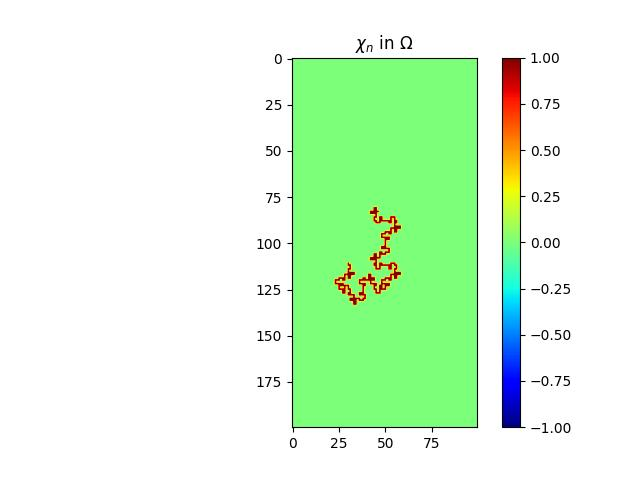
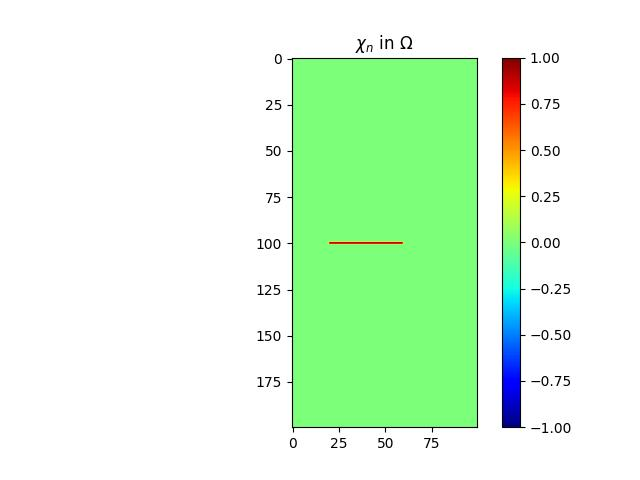
ça tourne mais chi ne se modifie pas

Changed region(s): [[0.5, 0.4062, 0.625, 0.6562]]

diff --git a/demo_control_polycopie2023.py b/demo_control_polycopie2023.py
@@ -20,6 +20,7 @@ def compute_J_prim(alpha, u, p) :
     for i in range(M) :
         for j in range(N) :
             res[i,j]=np.real(-alpha[i,j]*u[i,j]*p[i,j])
+    return res
 
 
 def BelongsInteriorDomain(node):
@@ -40,19 +41,19 @@ def compute_gradient_descent(chi, grad, domain, mu):
     :param grad: parametric gradient associated to the problem
     :param domain: domain of definition of the equations
     :param mu: step of the descent
-    :type chi: numpy.array((M,N), dtype=float64
-    :type grad: numpy.array((M,N), dtype=float64)
-    :type domain: numpy.array((M,N), dtype=int64)
+    :type chi: np.array((M,N), dtype=float64
+    :type grad: np.array((M,N), dtype=float64)
+    :type domain: np.array((M,N), dtype=int64)
     :type mu: float
     :return chi:
-    :rtype chi: numpy.array((M,N), dtype=float64
+    :rtype chi: np.array((M,N), dtype=float64
 
     .. warnings also: It is important that the conditions be expressed with an "if",
             not with an "elif", as some points are neighbours to multiple points
             of the Robin frontier.
     """
 
-    (M, N) = numpy.shape(domain)
+    (M, N) = np.shape(domain)
     # for i in range(0, M):
     # 	for j in range(0, N):
     # 		if domain_omega[i, j] != _env.NODE_ROBIN:
@@ -73,6 +74,7 @@ def compute_gradient_descent(chi, grad, domain, mu):
             d = BelongsInteriorDomain(domain[i, j - 1])
             if a == 2:
                 print(i+1,j, "-----", "i+1,j")
+
                 chi[i + 1, j] = chi[i + 1, j] - mu * grad[i, j]
             if b == 2:
                 print(i - 1, j, "-----", "i - 1, j")
@@ -97,14 +99,14 @@ def compute_projected(chi, domain, V_obj):
     :param chi: density matrix
     :param domain: domain of definition of the equations
     :param V_obj: characterizes the volume constraint
-    :type chi: numpy.array((M,N), dtype=float64)
-    :type domain: numpy.array((M,N), dtype=complex128)
+    :type chi: np.array((M,N), dtype=float64)
+    :type domain: np.array((M,N), dtype=complex128)
     :type float: float
     :return:
     :rtype:
     """
 
-    (M, N) = numpy.shape(domain)
+    (M, N) = np.shape(domain)
     S = 0
     for i in range(M):
         for j in range(N):
@@ -113,11 +115,11 @@ def compute_projected(chi, domain, V_obj):
 
     B = chi.copy()
     l = 0
-    chi = set2zero(chi, domain)
+    chi = processing.set2zero(chi, domain)
 
-    V = numpy.sum(numpy.sum(chi)) / S
-    debut = -numpy.max(chi)
-    fin = numpy.max(chi)
+    V = np.sum(np.sum(chi)) / S
+    debut = -np.max(chi)
+    fin = np.max(chi)
     ecart = fin - debut
     # We use dichotomy to find a constant such that chi^{n+1}=max(0,min(chi^{n}+l,1)) is an element of the admissible space
     while ecart > 10 ** -4:
@@ -125,8 +127,8 @@ def compute_projected(chi, domain, V_obj):
         l = (debut + fin) / 2
         for i in range(M):
             for j in range(N):
-                chi[i, j] = numpy.maximum(0, numpy.minimum(B[i, j] + l, 1))
-        chi = set2zero(chi, domain)
+                chi[i, j] = np.maximum(0, np.minimum(B[i, j] + l, 1))
+        chi = processing.set2zero(chi, domain)
         V = sum(sum(chi)) / S
         if V > V_obj:
             fin = l
@@ -153,9 +155,9 @@ def your_optimization_procedure(domain_omega, spacestep, omega, f, f_dir, f_neu,
     """
 
     k = 0
-    (M, N) = numpy.shape(domain_omega)
-    numb_iter = 100
-    energy = numpy.zeros((numb_iter+1, 1), dtype=numpy.float64)
+    (M, N) = np.shape(domain_omega)
+    numb_iter = 5
+    energy = np.zeros((numb_iter+1, 1), dtype=np.float64)
     while k < numb_iter and mu > 10**(-5):
         print('1. computing solution of Helmholtz problem, i.e., u')
         u=processing.solve_helmholtz(domain_omega, spacestep, omega, f, f_dir, f_neu, f_rob, beta_pde, alpha_pde, alpha_dir, beta_neu, beta_rob, alpha_rob)
@@ -164,15 +166,16 @@ def your_optimization_procedure(domain_omega, spacestep, omega, f, f_dir, f_neu,
         print('3. computing objective function, i.e., energy')
         J=your_compute_objective_function(u)
         energy[k]=J
-        J_prim=compute_J_prim(alpha_rob, u, p)
+        Jprim=compute_J_prim(alpha_rob, u, p)
         print('4. computing parametric gradient')
         ene=J
         while ene >= energy[k] and mu > 10 ** -5:
+            grad = Jprim
             print('    a. computing gradient descent')
-            chi = compute_gradient_descent(chi, grad, domain, mu) #chi_k+1 sans projection (l=0)
+            chi = compute_gradient_descent(chi, grad, domain_omega, mu) #chi_k+1 sans projection (l=0)
 
             print('    b. computing projected gradient')
-            chi = compute_projected(chi, domain, V_obj)
+            chi = compute_projected(chi, domain_omega, V_obj)
             
             print('    c. computing solution of Helmholtz problem, i.e., u')
             u=processing.solve_helmholtz(domain_omega, spacestep, omega, f, f_dir, f_neu, f_rob, beta_pde, alpha_pde, alpha_dir, beta_neu, beta_rob, alpha_rob)
@@ -226,7 +229,7 @@ if __name__ == '__main__':
     # -- set parameters of the geometry
     N = 100  # number of points along x-axis
     M = 2 * N  # number of points along y-axis
-    level = 3 # level of the fractal
+    level = 0 # level of the fractal
     spacestep = 1.0 / N  # mesh size
 
     # -- set parameters of the partial differential equation
